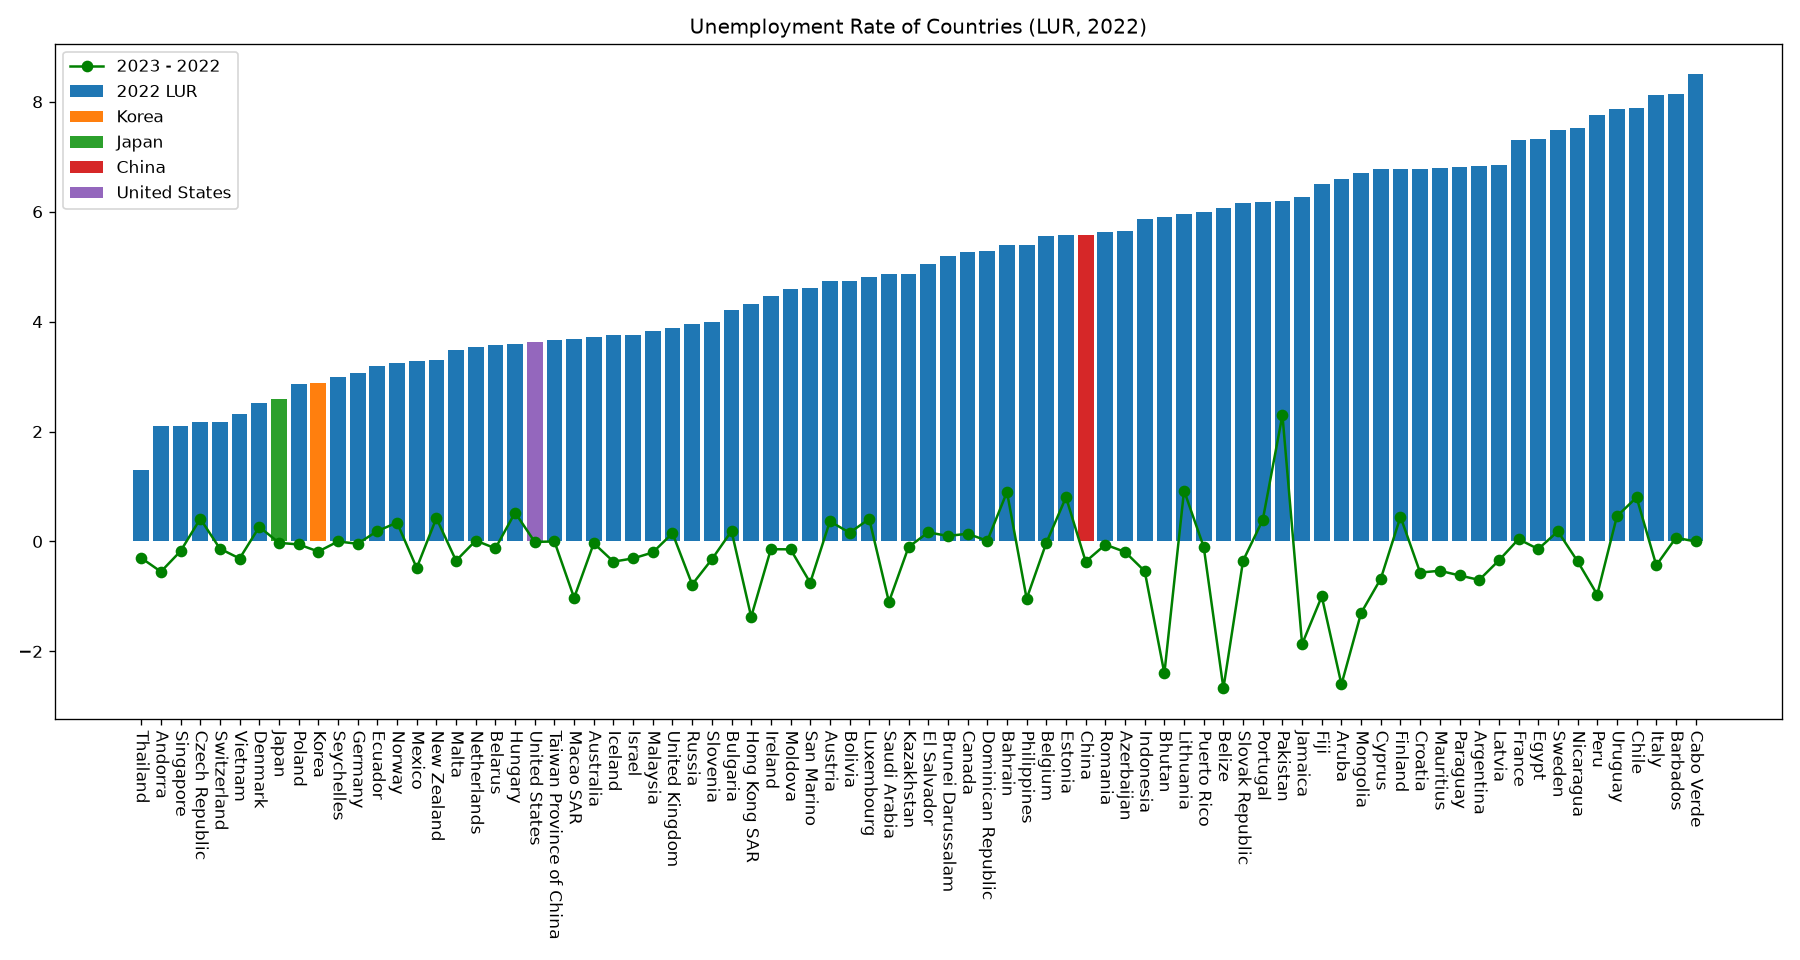
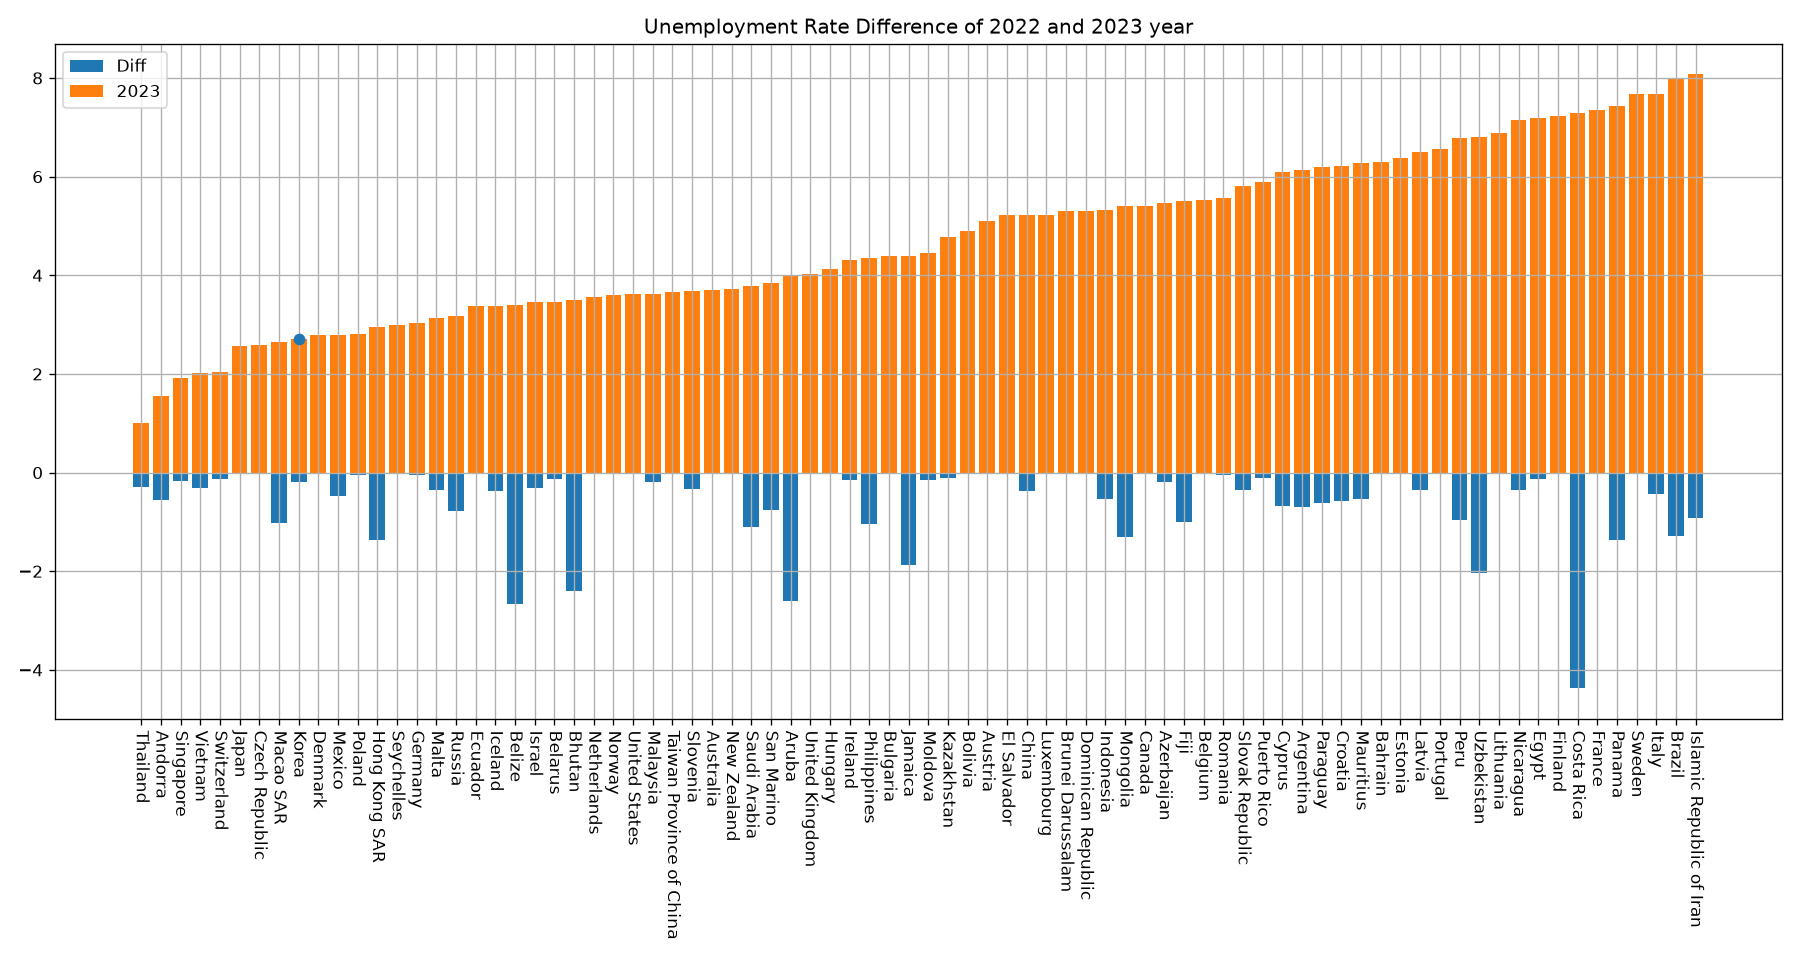
Match the LUR difference chart to the class screenshot style.
Plot Diff and 2023 as overlaid bars sorted by 2023, and mark Korea.

diff --git a/lur_analysis/lur_unemployment_analysis.py b/lur_analysis/lur_unemployment_analysis.py
@@ -2,43 +2,30 @@ import pandas as pd
 import numpy as np
 import matplotlib.pyplot as plt
 
-df = pd.read_excel("WEOApr2024.xlsx")
-unemp_df = df.loc[df["WEO Subject Code"] == "LUR"]
-unemp_df_2022 = unemp_df[["Country", 2022, 2023]]
-unemp_df_2022.reset_index(inplace=True, drop=True)
-unemp_df_2022 = unemp_df_2022.dropna()
-unemp_df_2022[2022] = pd.to_numeric(unemp_df_2022[2022])
-unemp_df_2022[2023] = pd.to_numeric(unemp_df_2022[2023])
+df = pd.read_excel('WEOApr2024.xlsx')
+unemp_df = df.loc[df['WEO Subject Code'] == 'LUR']
+unemp_df = unemp_df[['Country', 2022, 2023]]
+unemp_df.reset_index(inplace=True, drop=True)
+unemp_df = unemp_df.dropna()
+unemp_df[2022] = pd.to_numeric(unemp_df[2022])
+unemp_df[2023] = pd.to_numeric(unemp_df[2023])
 
 # 2023 - 2022 차이값
-unemp_df_2022["diff"] = unemp_df_2022[2023] - unemp_df_2022[2022]
+unemp_df['Diff'] = unemp_df[2023] - unemp_df[2022]
 
-# 2022년 실업률 오름차순 정렬 후 80개국
-sorted_df = unemp_df_2022.sort_values(2022).iloc[:80]
+# 2023년 기준 오름차순 80개국
+sorted_df = unemp_df.sort_values(2023).iloc[:80]
 
 plt.figure(figsize=(15, 8))
-
-# 2022년 실업률 (막대)
-plt.bar(sorted_df.iloc[:, 0], sorted_df.iloc[:, 1], label="2022 LUR")
-plt.title("Unemployment Rate of Countries (LUR, 2022)")
+plt.bar(sorted_df['Country'], sorted_df['Diff'], label='Diff')
+plt.bar(sorted_df['Country'], sorted_df[2023], label='2023')
+plt.title('Unemployment Rate Difference of 2022 and 2023 year')
 plt.xticks(rotation=270)
 
-# 관심 국가 표시
-korea_df = sorted_df.loc[sorted_df["Country"] == "Korea"]
-plt.bar(korea_df["Country"], korea_df[2022], label="Korea")
-
-japan_df = sorted_df.loc[sorted_df["Country"] == "Japan"]
-plt.bar(japan_df["Country"], japan_df[2022], label="Japan")
-
-china_df = sorted_df.loc[sorted_df["Country"] == "China"]
-plt.bar(china_df["Country"], china_df[2022], label="China")
-
-us_df = sorted_df.loc[sorted_df["Country"] == "United States"]
-plt.bar(us_df["Country"], us_df[2022], label="United States")
-
-# 2023 - 2022 차이값 (같은 그래프에 선으로 표시)
-plt.plot(sorted_df["Country"], sorted_df["diff"], color="green", marker="o", label="2023 - 2022")
+# 관심 국가(Korea) 표시
+korea_df = sorted_df.loc[sorted_df['Country'] == 'Korea']
+plt.plot(korea_df['Country'], korea_df[2023], 'o')
 
 plt.legend()
-plt.tight_layout()
+plt.grid(True)
 plt.show()
